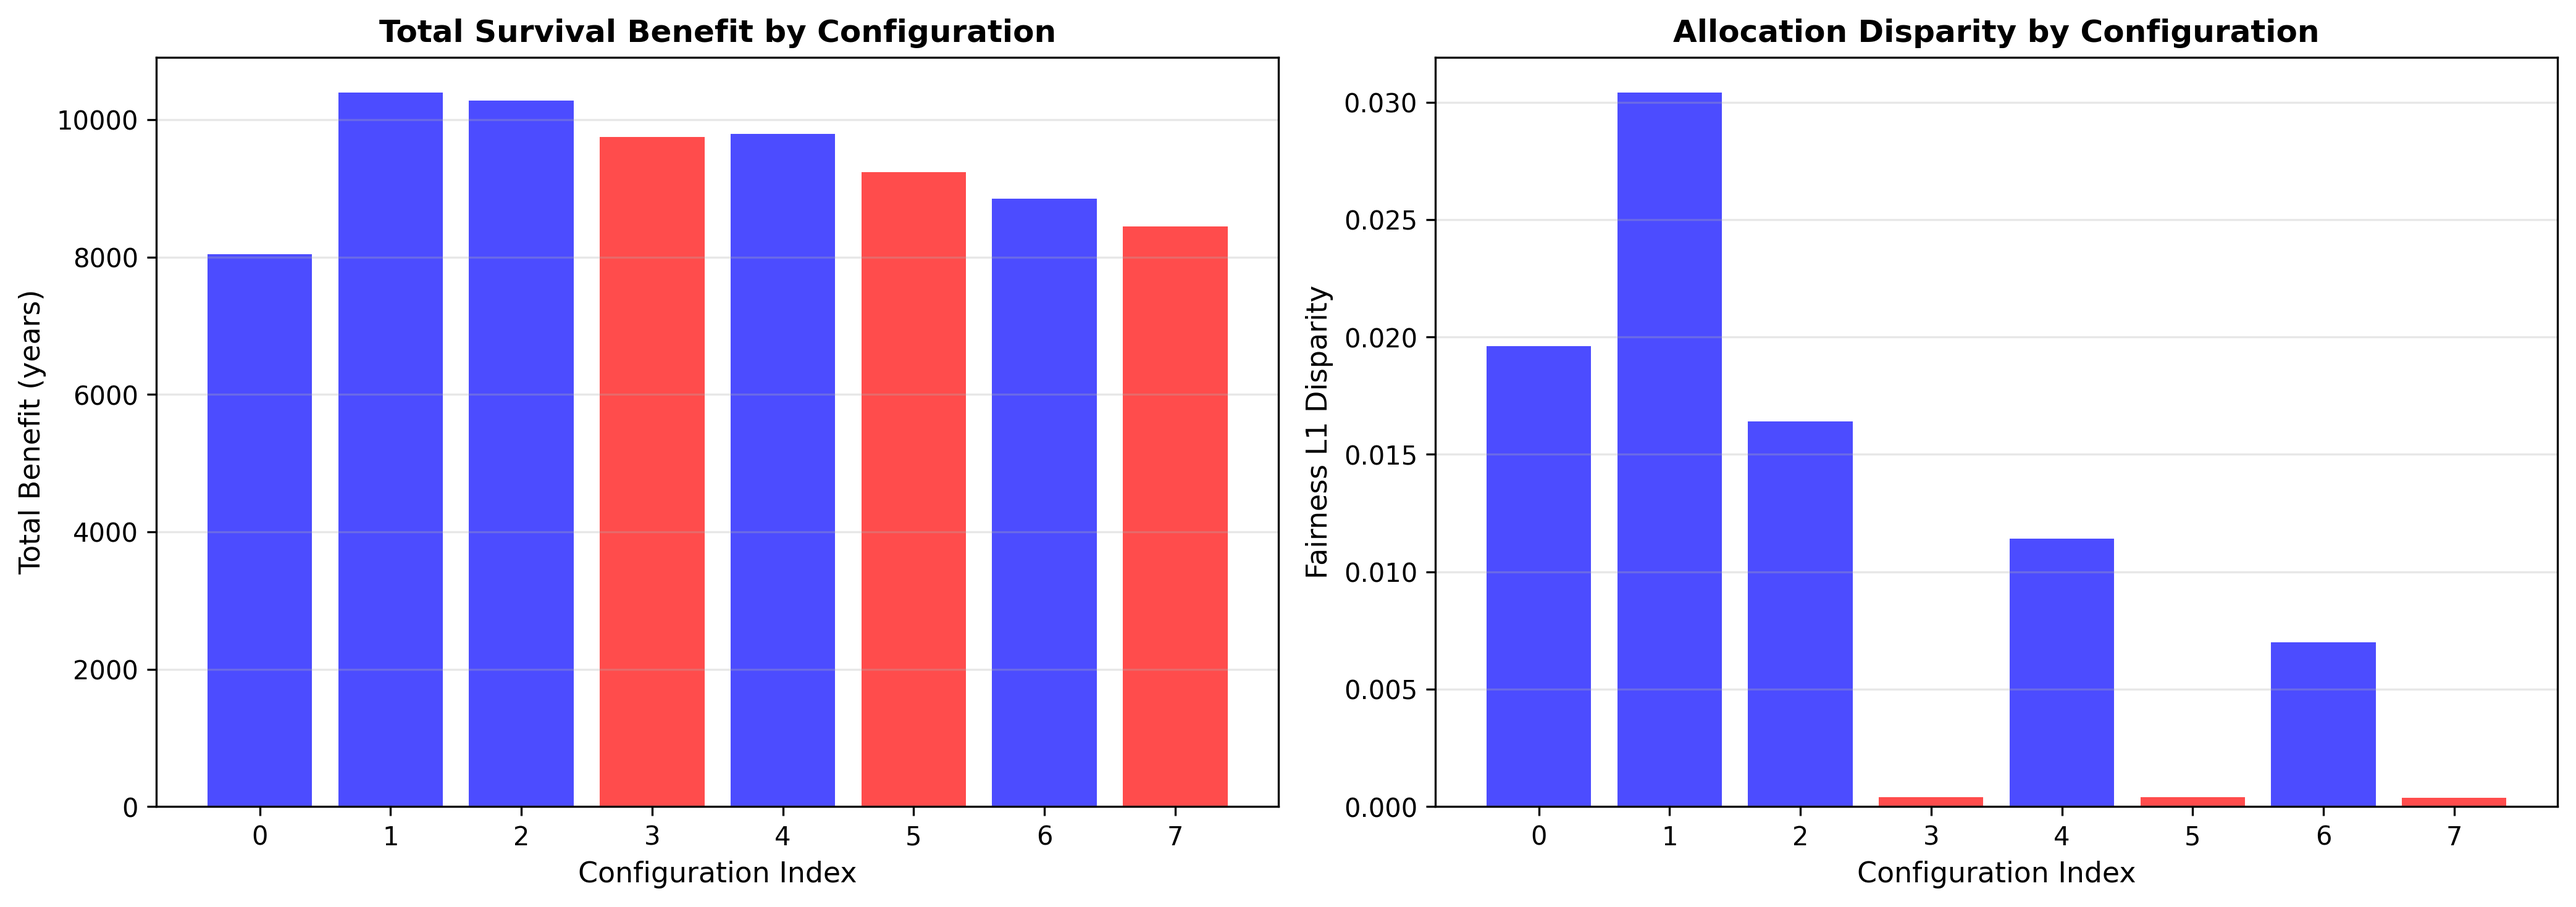
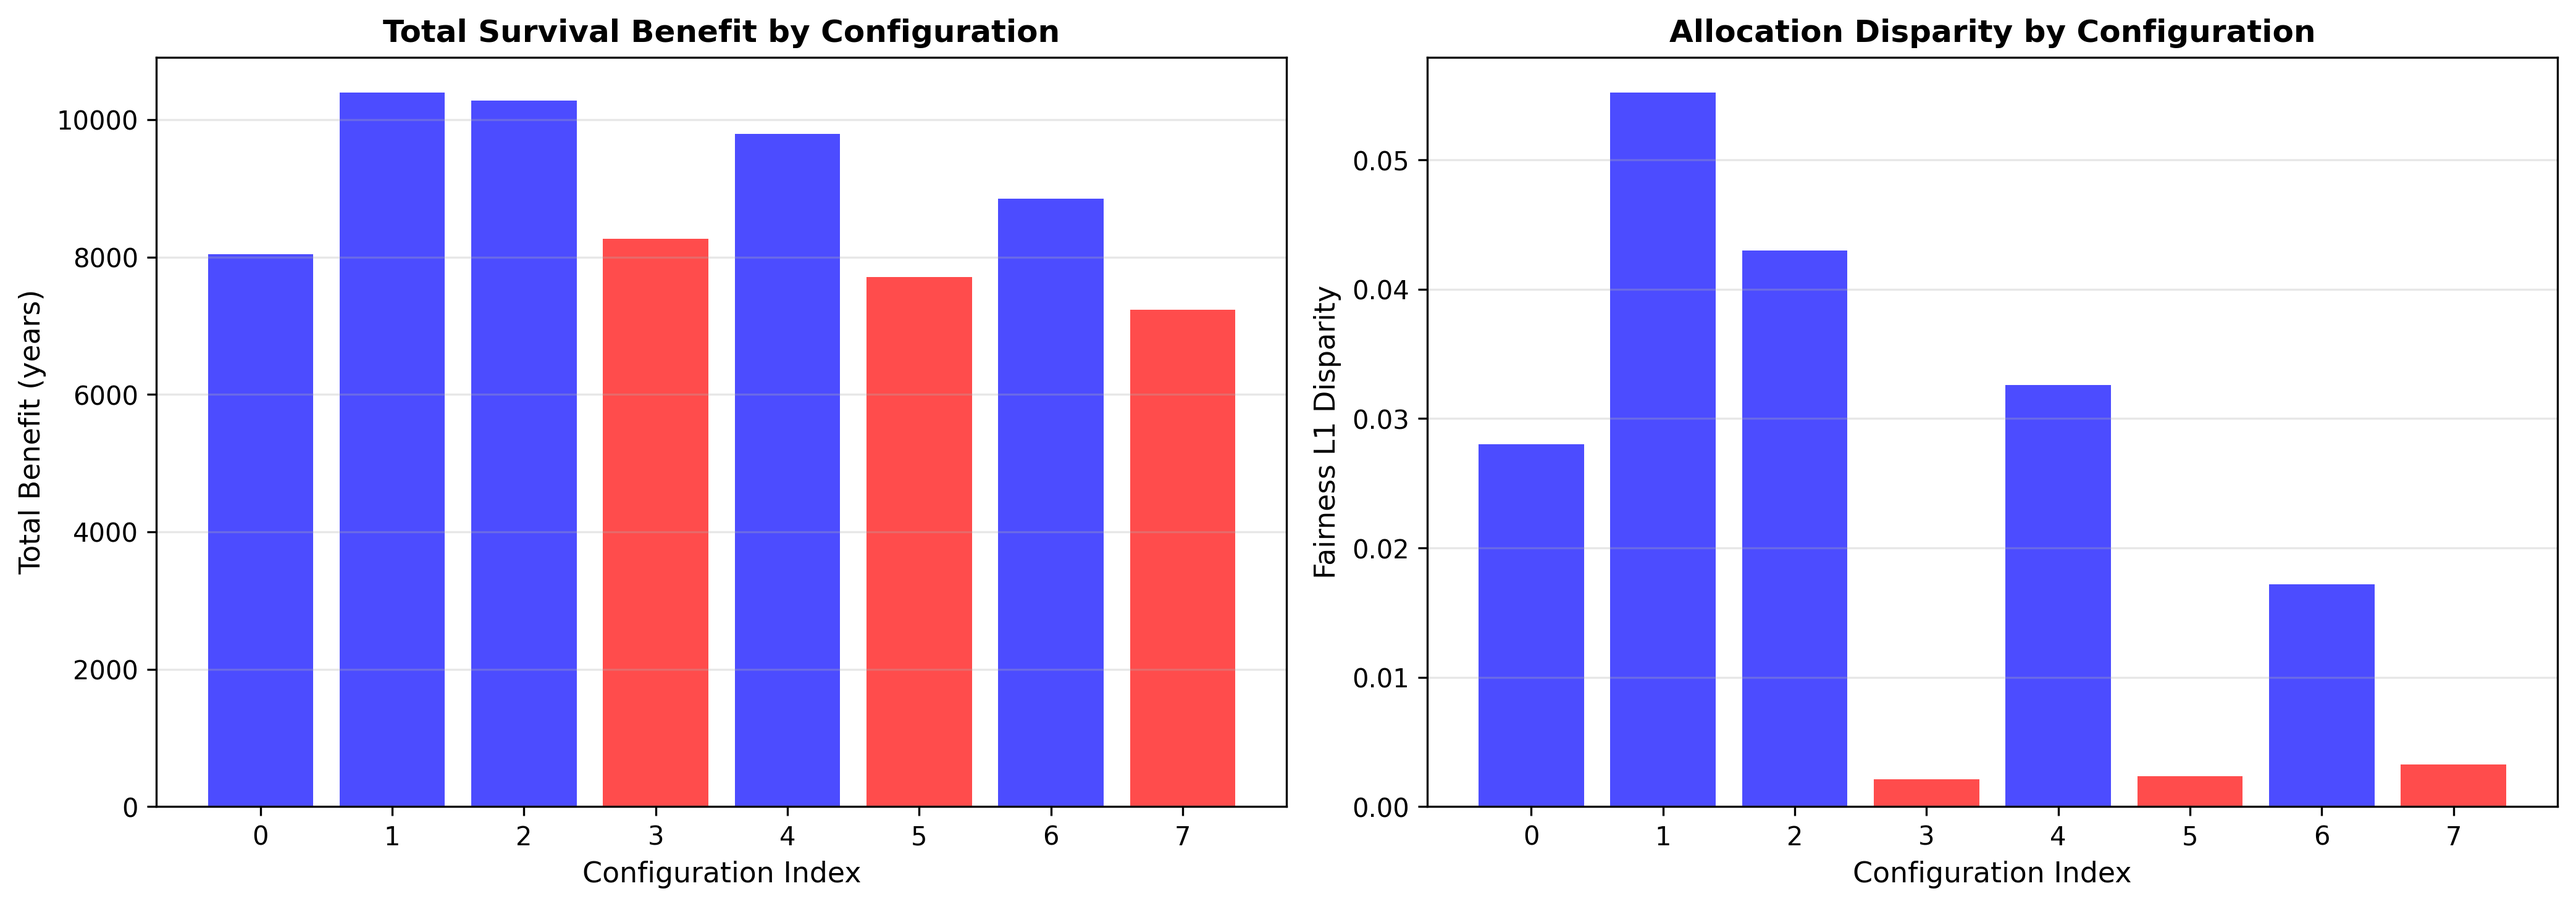
Add composite fairness results with 5k/1k test
- Hybrid+Fair (α=0.5): 7,708 years, L1=0.002, 897/1000 allocated
- 15 intersectional groups created
- Shows sparse group problem: 10% organs unused, 21% benefit loss
- Excellent fairness but significant efficiency cost

diff --git a/COMPOSITE_RESULTS.md b/COMPOSITE_RESULTS.md
@@ -1,0 +1,109 @@
+# Composite Fairness Results
+
+**Branch:** `composite-fairness`  
+**Date:** November 27, 2024  
+**Test Configuration:** 5,000 patients, 1,000 donors (sampled from full dataset)  
+**Fairness Approach:** Composite groups (Ethnicity × SES = 15 groups)  
+**Random Seed:** 42
+
+---
+
+## Results
+
+| Policy | Total Benefit | Mean Urgency | Fairness L1 | Organs Allocated |
+|--------|--------------|--------------|-------------|------------------|
+| **Urgency** | 8,038 years | **0.767** | 0.028 | 1,000/1,000 |
+| **Utility** | **10,391 years** | 0.558 | 0.055 | 1,000/1,000 |
+| **Hybrid (α=0.25)** | 10,282 years | 0.635 | 0.043 | 1,000/1,000 |
+| **Hybrid+Fair (α=0.25, η=1.0)** | 8,266 years | 0.565 | **0.002** | **921/1,000** ⚠ |
+| **Hybrid (α=0.50)** | 9,794 years | 0.707 | 0.033 | 1,000/1,000 |
+| **Hybrid+Fair (α=0.50, η=1.0)** | 7,708 years | 0.611 | **0.002** | **897/1,000** ⚠ |
+| **Hybrid (α=0.75)** | 8,853 years | 0.757 | 0.017 | 1,000/1,000 |
+| **Hybrid+Fair (α=0.75, η=1.0)** | 7,232 years | 0.611 | **0.003** | **872/1,000** ⚠ |
+
+---
+
+## Composite Groups Created
+
+15 intersectional groups (Ethnicity × SES):
+
+| Group | Count | Percentage |
+|-------|-------|------------|
+| Black_Middle | 26,227 | 17.5% |
+| White_Middle | 29,664 | 19.8% |
+| Hispanic_Middle | 17,195 | 11.5% |
+| White_Low | 13,303 | 8.9% |
+| Black_Low | 12,228 | 8.2% |
+| White_High | 10,732 | 7.2% |
+| Black_High | 9,645 | 6.4% |
+| Asian_Middle | 7,929 | 5.3% |
+| Hispanic_Low | 7,651 | 5.1% |
+| Hispanic_High | 6,149 | 4.1% |
+| Asian_Low | 3,677 | 2.5% |
+| Asian_High | 2,864 | 1.9% |
+| Other_Middle | 1,547 | 1.0% |
+| Other_Low | 662 | 0.4% |
+| Other_High | 527 | 0.4% |
+
+**Problem:** "Other" groups are very small (<1%), making matches difficult.
+
+---
+
+## Key Findings
+
+### 1. Fairness Performance
+- **Excellent fairness:** L1 = 0.002-0.003 (each group within 0.2-0.3% of proportional share)
+- Successfully balances across all 15 intersectional groups
+
+### 2. Efficiency Problem ⚠
+- **~10% organs unused** with fairness constraints (872-921 allocated vs 1,000)
+- **21-25% benefit loss** compared to non-fairness hybrid (α=0.5: 9,794 → 7,708 years = -21%)
+- **Why:** When fairness requires allocation to tiny group with no compatible match → organ wasted
+
+### 3. Comparison to Main Branch (Single-Dimension)
+- **Main branch Hybrid+Fair (α=0.5):** 8,960 years, 960/1,000 allocated
+- **Composite Hybrid+Fair (α=0.5):** 7,708 years, 897/1,000 allocated  
+- **Composite is 14% worse** due to sparse groups
+
+---
+
+## Why Composite Has Lower Benefit
+
+### The Sparse Group Problem
+
+**Example scenario:**
+1. Donor arrives: Blood Type AB, KDPI=20 (good kidney)
+2. Fairness constraint activates: "Other_Low" group is underrepresented
+3. Problem: Only 662 "Other_Low" patients total, none are Type AB compatible
+4. Result: **Kidney goes unused** or algorithm forced to pick very suboptimal match
+
+### Mathematical Issue
+- 15 groups → average 6.7% per group
+- Smallest groups < 0.5% of population
+- With blood type constraint (8 types × 15 groups = 120 possible combinations!)
+- Many combinations have **zero or very few patients**
+
+---
+
+## Comparison to Multi-Dimensional Approach
+
+The multi-dimensional approach tracks 5 ethnicities + 3 SES = 8 groups (not 15) and combines deficits with weights. This avoids the sparse group problem while still achieving fairness across both dimensions.
+
+**Expected next:** Run multi-dimensional branch for direct comparison.
+
+---
+
+## Files Generated
+
+- `figures/tradeoff_urgency_vs_benefit.png` - Updated
+- `figures/tradeoff_fairness_vs_benefit.png` - Updated
+- `figures/summary_bars.png` - Updated
+
+---
+
+## Recommendation
+
+Composite fairness achieves excellent intersectional fairness (L1<0.003) but at **significant efficiency cost** (~20-25% benefit loss, 10% organs wasted). This demonstrates the trade-off between strict intersectionality and practical outcomes.
+
+For the paper, this serves as an important comparison point showing why flexibility (multi-dimensional) matters.
+
